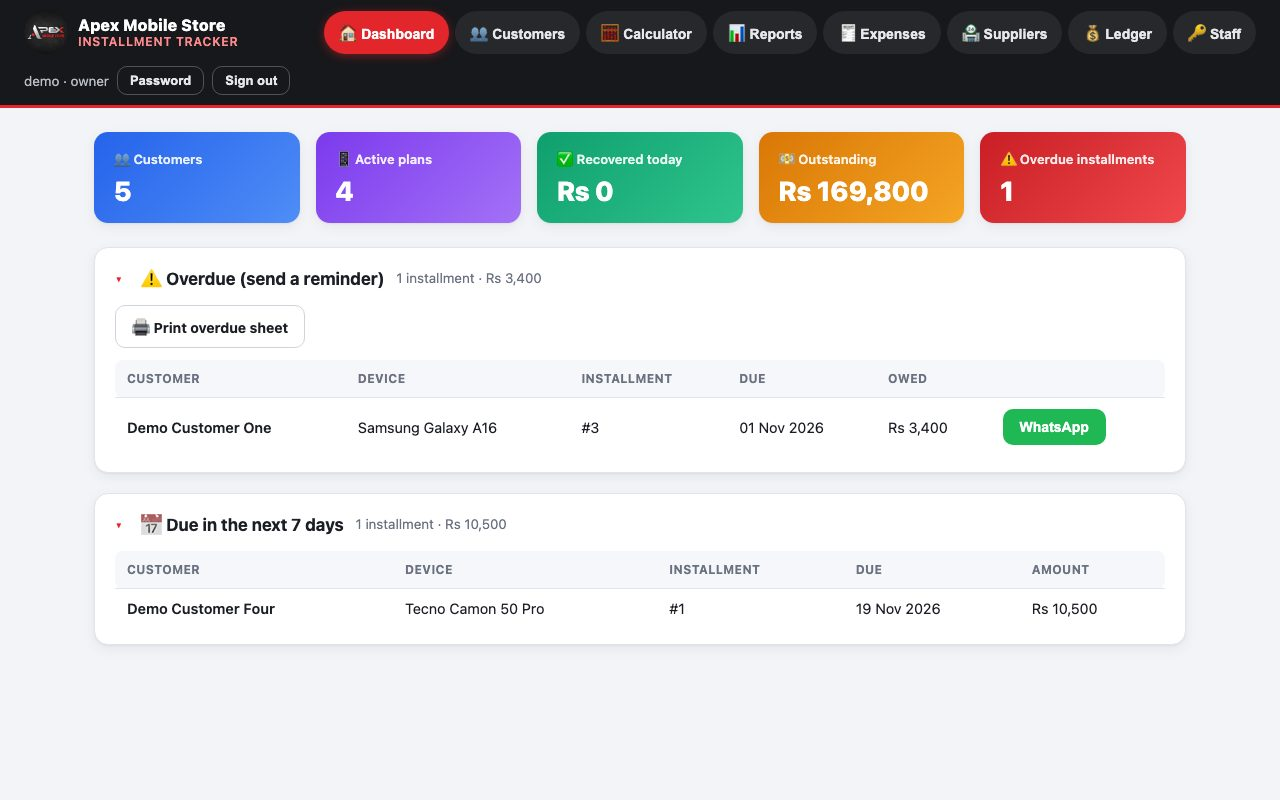
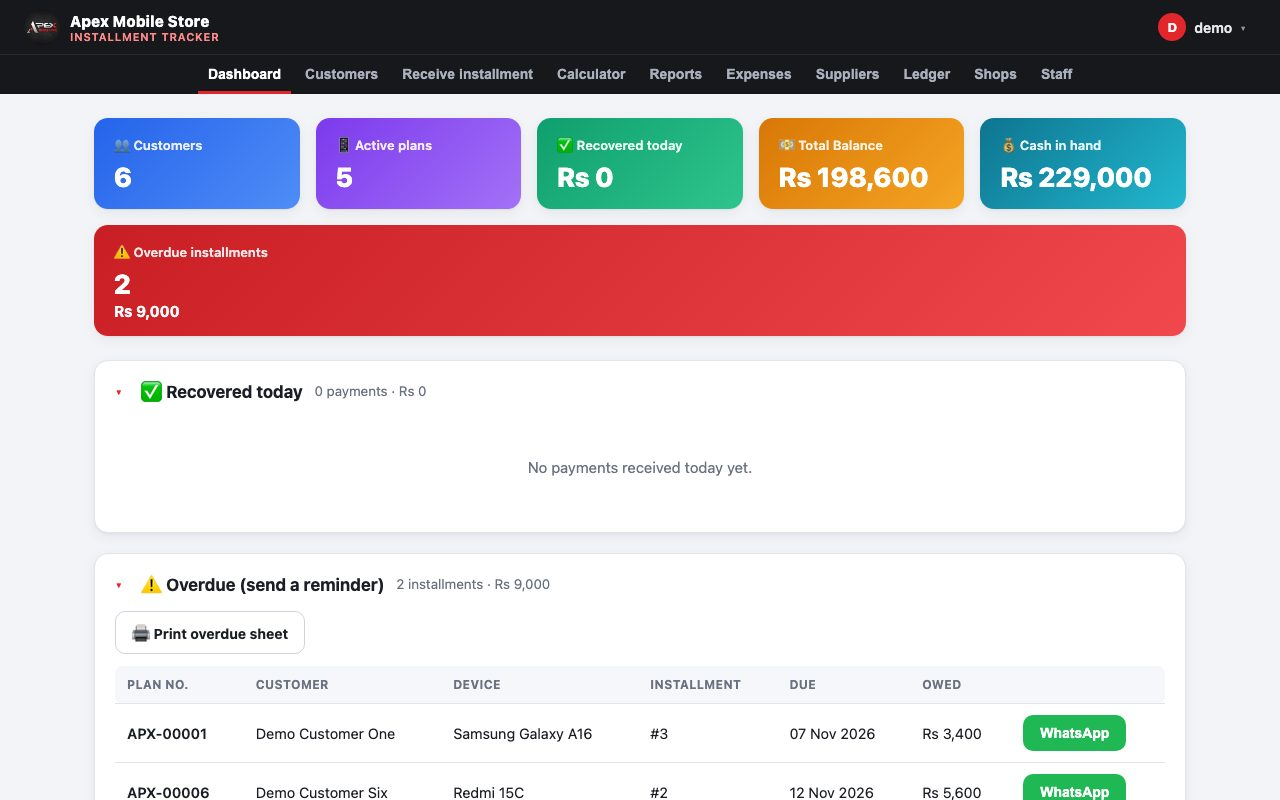
Update Installment Tracker card with new UI screenshot

diff --git a/src/data.js b/src/data.js
@@ -120,7 +120,7 @@ export const current = [
     kind: 'tracker',
     blurb:
       'Tracks customers buying phones on installments: who owes what, when it is due and who is behind.',
-    points: ['Custom schedules, partial payments and a plan calculator', 'Owner and staff logins, cash ledger, PDF statements and overdue sheets', 'One-click WhatsApp reminders that you review before sending'],
+    points: ['Dashboard with cash in hand, total balance, today\'s recoveries and overdue installments', 'Custom schedules, partial payments, a receive-installment screen and a plan calculator', 'Reports, expenses, suppliers, cash ledger, shops and staff logins', 'PDF statements, overdue sheets and WhatsApp reminders you review before sending'],
     tags: ['Node.js', 'Express', 'SQLite', 'PDFKit'],
   },
   {
